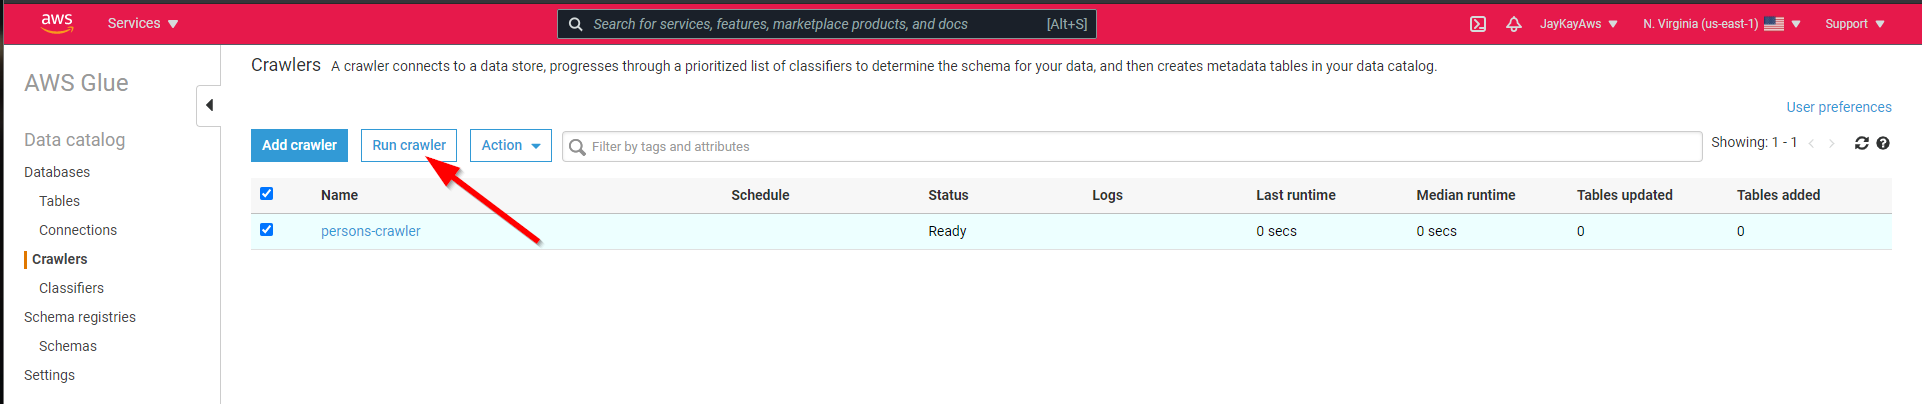
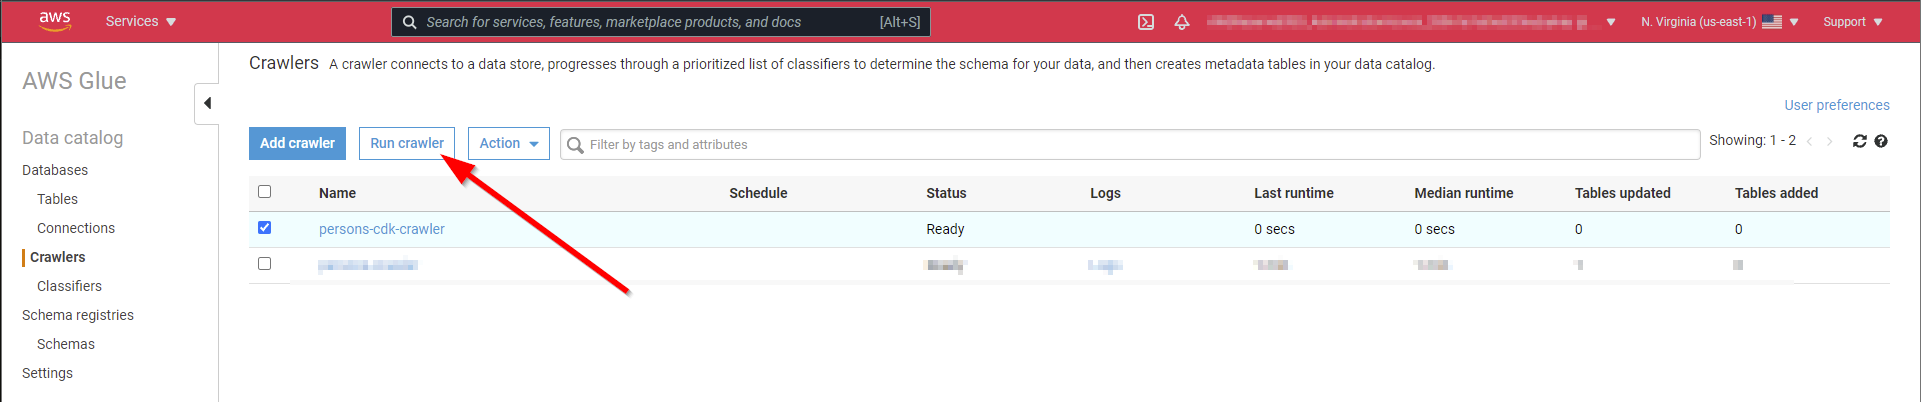
add post

diff --git a/_posts/2021-10-26-aws_example_ddb_analytics_cdk.md b/_posts/2021-10-26-aws_example_ddb_analytics_cdk.md
@@ -57,7 +57,7 @@ That adds to the DynamoDb, a Kinesis Data Stream, and connects it to the DynamoD
 
 ![kinesis data stream]({{ site.baseurl }}/img/2021-10-26-aws_example_ddb_analytics_cdk/kinesis_data_stream.png)
 
-![kinesis data stream ddb]({{ site.baseurl }}/2021-10-26-aws_example_ddb_analytics_cdk/kinesis_data_stream_ddb.png)
+![kinesis data stream ddb]({{ site.baseurl }}/img/2021-10-26-aws_example_ddb_analytics_cdk/kinesis_data_stream_ddb.png)
 
 # Kinesis Data Firehose and S3 Bucket
 
@@ -114,68 +114,70 @@ There is already a [github issue](https://github.com/aws/aws-cdk/issues/8863) to
 
 
 ```typescript
-const roleCrawler = new iam.Role(this, 'role crawler', {
-      roleName: `${name}-crawler-role`,
-      assumedBy: new iam.ServicePrincipal('glue.amazonaws.com'),
+const getSecurityConfiguration = new iam.PolicyDocument({
+      statements: [
+        new iam.PolicyStatement({
+          actions: ['glue:GetSecurityConfiguration'],
+          resources: ['*']
+        })
+      ]
     })
 
-    roleCrawler.addToPolicy(
-      new iam.PolicyStatement({
-        resources: ['*'],
-        actions: ['glue:GetSecurityConfiguration'],
-      })
-    )
+  const roleCrawler = new iam.Role(this, 'role crawler', {
+    roleName: `${name}-crawler-role`,
+    assumedBy: new iam.ServicePrincipal('glue.amazonaws.com'),
+    inlinePolicies: {
+      GetSecurityConfiguration: getSecurityConfiguration
+    }
+  })
 
-    const glueDb = new glue.Database(this, 'glue db', {
-      databaseName: `${name}-db`,
+  const glueDb = new glue.Database(this, 'glue db', {
+    databaseName: `${name}-db`,
+  })
+
+  const glueSecurityOptions = new glue.SecurityConfiguration(this, 'glue security options', {
+    securityConfigurationName: `${name}-security-options`,
+    s3Encryption: {
+      mode: glue.S3EncryptionMode.KMS,
+    },
+  })
+
+  const crawler = new glue.CfnCrawler(this, 'crawler', {
+    name: `${name}-crawler`,
+    role: roleCrawler.roleArn,
+    targets: {
+      s3Targets: [
+        {
+          path: `s3://${firehoseBucket.bucketName}`,
+        },
+      ],
+    },
+    databaseName: glueDb.databaseName,
+    crawlerSecurityConfiguration: glueSecurityOptions.securityConfigurationName,
+  })
+
+  // const glueCrawlerLogArn = `arn:aws:logs:${cdk.Stack.of(this).region}:${cdk.Stack.of(this).account}:log-group:/aws-glue/crawlers:log-stream:${crawler.name}`
+  const glueCrawlerLogArn = `arn:aws:logs:${cdk.Stack.of(this).region}:${cdk.Stack.of(this).account}:log-group:/aws-glue/crawlers*` //:log-stream:${crawler.name}`
+
+  const glueTableArn = `arn:aws:glue:${cdk.Stack.of(this).region}:${cdk.Stack.of(this).account}:table/${glueDb.databaseName}/*`
+
+  const glueCrawlerArn = `arn:aws:glue:${cdk.Stack.of(this).region}:${cdk.Stack.of(this).account}:crawler/${crawler.name}`
+
+  roleCrawler.addToPolicy(
+    new iam.PolicyStatement({
+      resources: [
+        glueCrawlerLogArn,
+        glueTableArn,
+        glueDb.catalogArn,
+        glueDb.databaseArn,
+        kmsKey.keyArn,
+        firehoseBucket.bucketArn,
+        `${firehoseBucket.bucketArn}/*`,
+        glueCrawlerArn,
+      ],
+      actions: ['logs:*', 'glue:*', 'kms:*', 'S3:*'],
     })
-
-    const glueSecurityOptions = new glue.SecurityConfiguration(this, 'glue security options', {
-      securityConfigurationName: `${name}-security-options`,
-      s3Encryption: {
-        mode: glue.S3EncryptionMode.KMS,
-      },
-      cloudWatchEncryption: {
-        mode: glue.CloudWatchEncryptionMode.KMS,
-      },
-    })
-
-    const crawler = new glue.CfnCrawler(this, 'crawler', {
-      name: `${name}-crawler`,
-      role: roleCrawler.roleArn,
-      targets: {
-        s3Targets: [
-          {
-            path: `s3://${firehoseBucket.bucketName}`,
-          },
-        ],
-      },
-      databaseName: glueDb.databaseName,
-      crawlerSecurityConfiguration: glueSecurityOptions.securityConfigurationName,
-    })
-
-    // const glueCrawlerLogArn = `arn:aws:logs:${cdk.Stack.of(this).region}:${cdk.Stack.of(this).account}:log-group:/aws-glue/crawlers:log-stream:${crawler.name}`
-    const glueCrawlerLogArn = `arn:aws:logs:${cdk.Stack.of(this).region}:${cdk.Stack.of(this).account}:log-group:/aws-glue/crawlers*` //:log-stream:${crawler.name}`
-
-    const glueTableArn = `arn:aws:glue:${cdk.Stack.of(this).region}:${cdk.Stack.of(this).account}:table/${glueDb.databaseName}/*`
-
-    const glueCrawlerArn = `arn:aws:glue:${cdk.Stack.of(this).region}:${cdk.Stack.of(this).account}:crawler/${crawler.name}`
-
-    roleCrawler.addToPolicy(
-      new iam.PolicyStatement({
-        resources: [
-          glueCrawlerLogArn,
-          glueTableArn,
-          glueDb.catalogArn,
-          glueDb.databaseArn,
-          kmsKey.keyArn,
-          firehoseBucket.bucketArn,
-          `${firehoseBucket.bucketArn}/*`,
-          glueCrawlerArn,
-        ],
-        actions: ['logs:*', 'glue:*', 'kms:Decrypt', 'S3:*'],
-      })
-    )
+  )
 ```
 
 For test purposes, it's enough to run the crawler before any analysis. Scheduling is also possible.
@@ -209,6 +211,8 @@ new athena.CfnWorkGroup(this, 'analytics-athena-workgroup', {
   },
 })
 ```
+
+How to anylyze the data see also [here]({{ site.baseurl }}/aws/2021/08/27/aws_example_ddb_analytics/)
 
 # Cost Alert 💰
 
